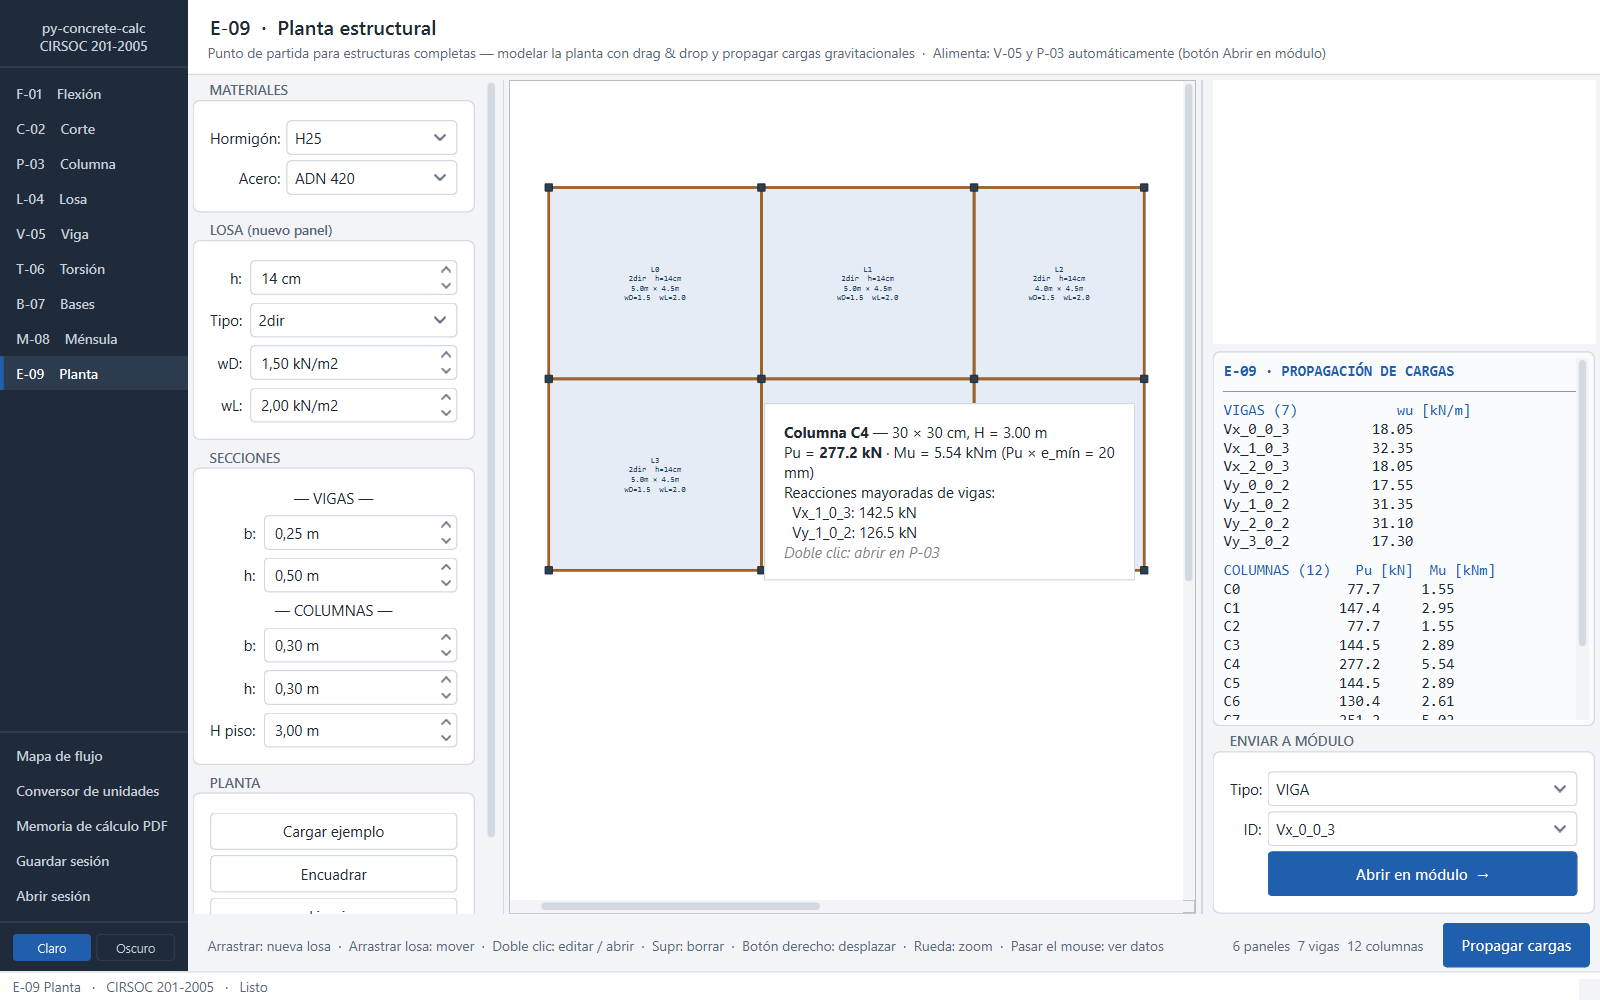
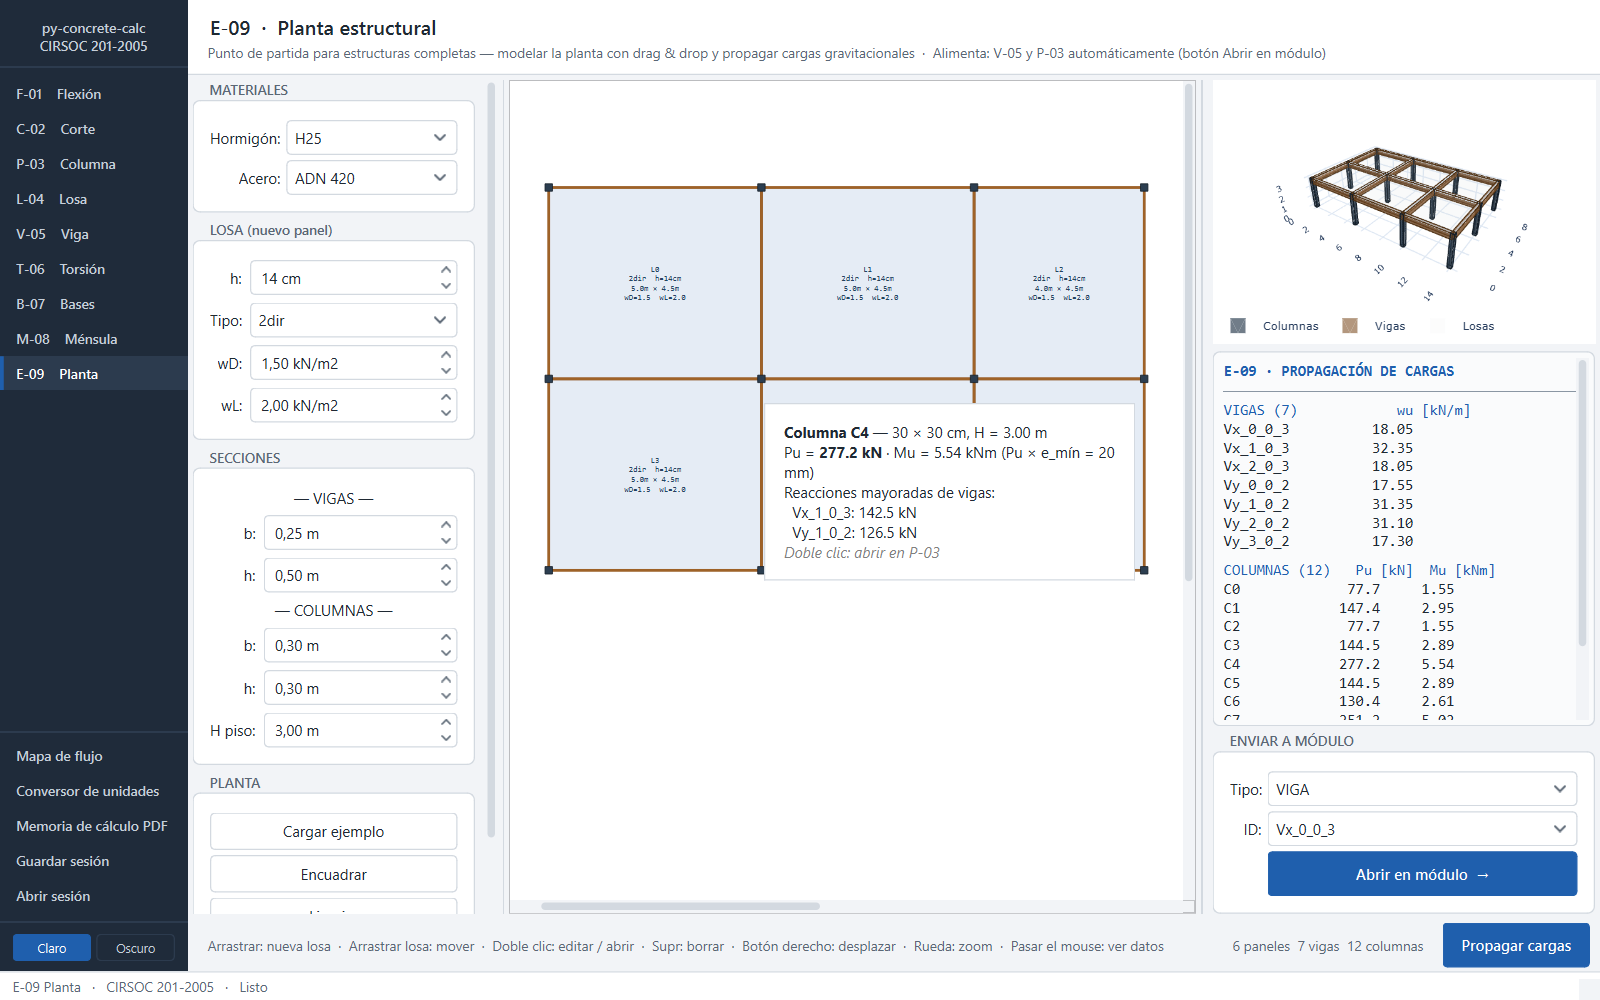
Agregar notas de desarrollo y script de capturas
- docs/DESARROLLO.md: puesta en marcha, arquitectura, convenciones, modelo
  de planta y propagación de cargas, decisiones tomadas y pendientes
- scripts/generar_capturas.py: regenera docs/capturas/ recorriendo la app
  (incluye vista 3D, tooltips, memoria PDF y tema oscuro)
- README enlaza las notas de desarrollo
- Capturas regeneradas con el script

Changed region(s): [[0.8125, 0.124, 0.9375, 0.248], [0.8125, 0.31, 0.875, 0.341], [0.75, 0.31, 0.7812, 0.341]]

diff --git a/scripts/generar_capturas.py b/scripts/generar_capturas.py
@@ -1,0 +1,229 @@
+"""
+Genera las capturas de la aplicación que usa el README (docs/capturas/).
+
+Recorre un escenario de demostración: calcula cada módulo, arma la planta de
+ejemplo en E-09, propaga cargas, envía una viga y una columna a sus módulos,
+exporta una memoria PDF y repite algunas pantallas en tema oscuro.
+
+Uso (desde la raíz del proyecto, con el entorno virtual activo):
+    python scripts/generar_capturas.py               # → docs/capturas/
+    python scripts/generar_capturas.py --salida otra/carpeta
+
+Notas:
+  - Abre la ventana de la aplicación unos 60 s; no hace falta interactuar.
+  - Las vistas QWebEngineView (Plotly 3D) y los tooltips no aparecen en
+    QWidget.grab() de la ventana: se capturan aparte y se pegan en su lugar.
+  - Termina con código 1 si algún módulo mostró un error.
+"""
+from __future__ import annotations
+
+import argparse
+import os
+import sys
+import tempfile
+import time
+import traceback
+
+RAIZ = os.path.dirname(os.path.dirname(os.path.abspath(__file__)))
+sys.path.insert(0, RAIZ)
+
+import app.main as m  # noqa: E402  (configura matplotlib y WebEngine antes de Qt)
+from PyQt6.QtCore import QPoint, QSize, QTimer  # noqa: E402
+from PyQt6.QtGui import QFont, QPainter  # noqa: E402
+from PyQt6.QtPdf import QPdfDocument  # noqa: E402
+from PyQt6.QtWebEngineWidgets import QWebEngineView  # noqa: E402
+from PyQt6.QtWidgets import QApplication, QToolTip, QWidget  # noqa: E402
+
+from app.memoria import generar_memoria  # noqa: E402
+from app.widgets.panel_resultados import PanelResultados  # noqa: E402
+
+args = argparse.ArgumentParser(description=__doc__.split('\n\n')[0])
+args.add_argument('--salida', default=os.path.join(RAIZ, 'docs', 'capturas'),
+                  help='carpeta destino (por defecto docs/capturas)')
+SALIDA = args.parse_args().salida
+os.makedirs(SALIDA, exist_ok=True)
+
+# Cualquier error mostrado por un módulo o excepción no capturada se registra
+errores: list[str] = []
+_mostrar_error = PanelResultados.mostrar_error
+PanelResultados.mostrar_error = lambda self, msg: (errores.append(msg), _mostrar_error(self, msg))[1]
+sys.excepthook = lambda *a: errores.append(''.join(traceback.format_exception(*a)))
+
+app = QApplication(sys.argv)
+app.setStyle('Fusion')
+app.setStyleSheet(m.get_stylesheet(m.get_tema()))
+app.setFont(QFont('Segoe UI', 9))
+win = m.VentanaPrincipal()
+win.show()
+
+
+# ── Utilidades ────────────────────────────────────────────────────────────────
+
+def pump(seg: float = 0.3) -> None:
+    """Procesa eventos de Qt durante `seg` segundos."""
+    fin = time.time() + seg
+    while time.time() < fin:
+        app.processEvents()
+        time.sleep(0.01)
+
+
+def _componer(widget: QWidget, tip: QWidget | None = None):
+    pix = widget.grab()
+    p = QPainter(pix)
+    for v in widget.findChildren(QWebEngineView):
+        if v.isVisibleTo(widget) and v.width() > 0:
+            p.drawPixmap(v.mapTo(widget, QPoint(0, 0)), v.grab())
+    if tip is not None:
+        p.drawPixmap(widget.mapFromGlobal(tip.mapToGlobal(QPoint(0, 0))), tip.grab())
+    p.end()
+    return pix
+
+
+def capturar(widget: QWidget, nombre: str) -> None:
+    _componer(widget).save(os.path.join(SALIDA, nombre))
+    print('  ', nombre, flush=True)
+
+
+def capturar_tooltip(nombre: str, sobre: QWidget, pos: QPoint, texto: str) -> None:
+    """Muestra el tooltip real de Qt en `pos` (coordenadas de `sobre`) y lo captura con la ventana."""
+    QToolTip.showText(sobre.mapToGlobal(pos), texto, sobre)
+    pump(0.6)
+    tip = next((w for w in QApplication.topLevelWidgets()
+                if w.metaObject().className() == 'QTipLabel' and w.isVisible()), None)
+    _componer(win, tip).save(os.path.join(SALIDA, nombre))
+    QToolTip.hideText()
+    pump(0.2)
+    print('  ', nombre, flush=True)
+
+
+def esperar_plotly(view: QWebEngineView, max_seg: float = 25) -> bool:
+    """Espera a que Plotly haya dibujado (existe .main-svg) y 1.5 s más para WebGL."""
+    listo = {'ok': False}
+    fin = time.time() + max_seg
+    while time.time() < fin and not listo['ok']:
+        view.page().runJavaScript("!!document.querySelector('.main-svg')",
+                                  lambda r: listo.__setitem__('ok', bool(r)))
+        pump(0.5)
+    pump(1.5)
+    if not listo['ok']:
+        errores.append('La vista 3D no terminó de cargar')
+    return listo['ok']
+
+
+def ir(idx: int):
+    win._cambiar_modulo(idx)
+    pump(0.3)
+    return win.stack.widget(idx)
+
+
+def adoptar_primera(w) -> None:
+    w.tabla.selectRow(0)
+    w.btn_adoptar.click()
+
+
+# ── Escenario ─────────────────────────────────────────────────────────────────
+
+def escenario() -> None:
+    try:
+        # F-01 Flexión: Mu = 180 kNm, variantes y adopción de la primera
+        w = ir(0)
+        w.entrada_Mu.setText('180')
+        w.btn_calc.click(); w.btn_var.click(); pump()
+        adoptar_primera(w); pump()
+        capturar(win, '01_flexion.png')
+
+        # Memoria de cálculo PDF de F-01 (página 1 como imagen)
+        ruta_pdf = os.path.join(tempfile.gettempdir(), 'memoria_F-01.pdf')
+        generar_memoria(w, 'F-01', ruta_pdf)
+        pdf = QPdfDocument(None)
+        pdf.load(ruta_pdf)
+        pdf.render(0, QSize(1240, 1754)).save(os.path.join(SALIDA, '17_memoria_pdf.png'))
+        print('   17_memoria_pdf.png', flush=True)
+
+        # C-02 Corte
+        w = ir(1)
+        w.btn_calc.click(); w.btn_var.click(); pump()
+        adoptar_primera(w); pump()
+        capturar(win, '02_corte.png')
+
+        # P-03 Columna
+        w = ir(2)
+        w.btn_calc.click(); pump()
+        capturar(win, '03_columna_PM.png')
+
+        # L-04 Losa en 1 y 2 direcciones
+        w = ir(3)
+        w.combo_tipo_losa.setCurrentIndex(0); w.btn_calc.click(); pump()
+        capturar(win, '04_losa_1dir.png')
+        w.combo_tipo_losa.setCurrentIndex(1); w.btn_calc.click(); pump()
+        capturar(win, '05_losa_2dir.png')
+
+        # V-05 Viga simple
+        w = ir(4)
+        w.combo_tipo.setCurrentIndex(0); w.btn_calc.click(); pump()
+        capturar(win, '06_viga_simple.png')
+
+        # T-06, B-07, M-08
+        w = ir(5); w.btn_calc.click(); pump(); capturar(win, '07_torsion.png')
+        w = ir(6); w.btn_calc.click(); pump(); capturar(win, '08_base.png')
+        w = ir(7); w.btn_calc.click(); pump(); capturar(win, '09_mensula.png')
+
+        # E-09 Planta: ejemplo (se carga al abrir) + propagación + 3D
+        w = ir(8)
+        w.btn_prop.click()
+        esperar_plotly(w.visor._view)
+        capturar(win, '10_planta_propagacion.png')
+
+        # Tooltips sobre la planta: columna más cargada y una losa interior
+        sc, vista = w._scene, w._view
+        prop = w._propagacion.cargas_columnas
+        col = max((c for c in sc._cols if c.elem_id), key=lambda c: prop[c.elem_id].Pu)
+        capturar_tooltip('18_tooltip_columna.png', vista.viewport(),
+                         vista.mapFromScene(col.scenePos()), col.toolTip())
+        losa = sc._panels[min(4, len(sc._panels) - 1)]
+        capturar_tooltip('19_tooltip_losa.png', vista.viewport(),
+                         vista.mapFromScene(losa.sceneBoundingRect().center()), losa.toolTip())
+
+        w._ver_3d_ampliado()
+        esperar_plotly(w._dlg_3d.visor._view)
+        capturar(w._dlg_3d, '11_planta_3d.png')
+        w._dlg_3d.hide()
+
+        # E-09 → V-05 (viga continua interior) y → P-03 (columna más cargada)
+        w.combo_env_tipo.setCurrentText('VIGA'); w._actualizar_ids()
+        w.combo_env_id.setCurrentIndex(1)
+        w._enviar_a_modulo(); pump()
+        win.stack.widget(4).btn_calc.click(); pump()
+        capturar(win, '12_planta_a_viga_continua.png')
+
+        ir(8)
+        w.combo_env_tipo.setCurrentText('COLUMNA'); w._actualizar_ids()
+        w.combo_env_id.setCurrentText(col.elem_id)
+        w._enviar_a_modulo(); pump()
+        win.stack.widget(2).btn_calc.click(); pump()
+        capturar(win, '13_planta_a_columna.png')
+
+        # Mapa de flujo y conversor de unidades
+        win._abrir_mapa_flujo(); pump(0.8)
+        capturar(win._mapa_flujo, '14_mapa_flujo.png'); win._mapa_flujo.hide()
+        win._abrir_conversor(); pump()
+        capturar(win._conversor, '15_conversor.png'); win._conversor.hide()
+
+        # Tema oscuro: pantallas representativas
+        win._cambiar_tema('OSCURO'); pump(0.5)
+        for idx, nombre in ((0, 'flexion'), (3, 'losa_2dir'), (2, 'columna_PM')):
+            ir(idx); pump(0.5)
+            capturar(win, f'20_oscuro_{nombre}.png')
+        w = ir(8)
+        esperar_plotly(w.visor._view)
+        capturar(win, '20_oscuro_planta.png')
+        win._cambiar_tema('CLARO'); pump()
+    except Exception:
+        errores.append(traceback.format_exc())
+
+    print('errores:', errores or 'ninguno', flush=True)
+    app.exit(1 if errores else 0)
+
+
+QTimer.singleShot(800, escenario)
+sys.exit(app.exec())

diff --git a/docs/DESARROLLO.md b/docs/DESARROLLO.md
@@ -1,0 +1,115 @@
+# Notas de desarrollo
+
+Contexto para retomar el proyecto en otra computadora o en una sesión nueva: cómo está armado, qué se decidió y por qué, y qué queda pendiente. El README describe el proyecto hacia afuera; este documento es para quien lo desarrolla.
+
+## Puesta en marcha
+
+```bash
+git clone https://github.com/federicoarielcasado/py-concrete-calc.git
+cd py-concrete-calc
+python -m venv .venv && .venv\Scripts\activate      # Windows
+pip install -r requirements.txt
+
+python app/main.py                  # aplicación de escritorio
+python -m pytest                    # 598 tests (no necesitan PyQt)
+python -m ejemplos.ej_viga_continua # ejemplos: siempre como módulo, desde la raíz
+python scripts/generar_capturas.py  # regenera docs/capturas/ (~60 s, abre la app)
+```
+
+- El repositorio es privado: en una máquina nueva hace falta iniciar sesión en GitHub.
+- **El historial se reescribió en octubre de 2026** para quitar un archivo. Una copia clonada antes de esa fecha no es compatible: hay que clonar de nuevo (o `git fetch` + `git reset --hard origin/main`), nunca `git pull`.
+- CI: `.github/workflows/tests.yml` corre pytest en cada push (Ubuntu, sin PyQt, `MPLBACKEND=Agg`).
+
+## Arquitectura
+
+```
+hormigon/    Librería de cálculo pura (sin UI). Cada función devuelve un objeto
+             resultado con todos los valores intermedios.
+elementos/   Elementos tipificados que combinan módulos (viga, columna, losa, planta).
+graficos/    Figuras matplotlib (2D) y plotly (3D). No conocen la UI.
+app/         Interfaz PyQt6: una ventana por módulo en app/ventanas/, widgets
+             reutilizables en app/widgets/, temas, estilos y memoria PDF.
+tests/       pytest; valores esperados calculables a mano o de ejemplos CIRSOC.
+scripts/     Herramientas de desarrollo (capturas).
+```
+
+Flujo típico de una ventana: `validar_campos()` → leer entradas → función de `hormigon/` o `elementos/` → `panel_res.mostrar_resultado_*()` → figura de `graficos/` en `CanvasMatplotlib`.
+
+### Convenciones
+
+- Unidades: kN y m en todo el proyecto; MPa para tensiones; As en cm².
+- Nombres según la notación del CIRSOC (Mu, Vu, As, phi_Mn, f'c → `fc`...).
+- Combinación de cargas: siempre `hormigon.cargas.wu_DL()` = máx(1.4·D ; 1.2·D + 1.6·L), art. 9.2.1. No escribir factores sueltos (ver "Decisiones").
+- Variantes de armado: ordenadas por economía (menor área o menor Av/s).
+- Commits en español, en infinitivo ("Agregar…", "Corregir…"), sin líneas de co-autoría.
+
+## Interfaz
+
+| Pieza | Dónde | Notas |
+|---|---|---|
+| Temas Claro / Oscuro | `app/themes.py`, `app/styles.py` | Un `Tema` (dataclass) genera el QSS y los colores de todo lo que no usa QSS. Base de estilo `Fusion`. |
+| Figuras en el tema | `app/widgets/tema_figuras.py` | Las figuras se crean siempre en claro; el oscuro se aplica después invirtiendo grises y aclarando colores oscuros. Guarda los colores originales, así que cambiar de tema es reversible. Artistas con `gid='color_fijo'` no se tocan. Exportar figura y la memoria PDF usan siempre los colores claros. |
+| Panel de resultados | `app/widgets/panel_resultados.py` | Recibe `[(texto, color) \| None]`; `None` separa bloques, que se reparten en dos columnas. Recuerda la última llamada para redibujar al cambiar de tema; `lineas` alimenta la memoria PDF. |
+| Validación | `app/widgets/entradas.py` | Validador numérico en los `QLineEdit`, chequeo antes de calcular (vacío, no numérico, dimensión ≤ 0, negativo salvo Nu) y scroll de los paneles de datos. |
+| Memoria PDF | `app/memoria.py` | Genérica para cualquier ventana: lee los `QFormLayout` visibles, el panel de resultados y la figura. QTextDocument → QPdfWriter, sin dependencias extra. Referencias normativas por módulo en `_REFERENCIAS`. |
+| Visor 3D | `app/widgets/visor_3d.py` | plotly.js embebido (sin CDN, funciona offline). Supera el límite de 2 MB de `setHtml`, por eso se escribe a un archivo temporal y se usa `load()`. No llamar `setHtml` justo antes de un `load()` (compiten). |
+| Lienzo E-09 | `app/widgets/canvas_planta.py` | Escala `SCALE = 80 px/m`, grilla de 1 m. Vigas y columnas se generan solas desde los paneles. |
+
+Detalle útil para capturas automáticas: `QWidget.grab()` de la ventana no incluye el contenido de `QWebEngineView` ni los tooltips; `scripts/generar_capturas.py` los captura aparte y los superpone.
+
+## Modelo de planta (E-09) y propagación de cargas
+
+**Construcción** (`canvas_planta.py`):
+1. El usuario dibuja paños rectangulares (o usa *Cargar ejemplo*: 3×2 paños, 14 × 9 m).
+2. Cada borde de paño marcado "con viga" genera una viga; bordes colineales se unen en vigas continuas.
+3. `puntos_columna_m()` ubica una columna en cada extremo de viga **y en cada eje de la grilla que la cruza** (incluye cruces entre vigas). La usan tanto el dibujo como el modelo, para que coincidan.
+4. `to_planta_estructural()` arma el `PlantaEstructural` de `hormigon/modelo.py`.
+
+**Propagación** (`hormigon/propagacion.py`):
+
+| Paso | Regla |
+|---|---|
+| Losa | D = h·25 kN/m³ + wD superpuesta; L = wL |
+| Losa 1 dir. → viga | w·l/2 a las vigas perpendiculares a la luz |
+| Losa 2 dir. → viga | Líneas a 45°: triangular sobre el **lado corto**, trapezoidal sobre el **largo** |
+| Equivalente para **momento** (diseño de la viga) | triangular w·la/3; trapezoidal w·la·(3−m²)/6 |
+| Equivalente para **corte** (reacciones) | triangular w·la/4; trapezoidal w·la·(2−m)/4 (suman exactamente w·la·lb) |
+| Viga → columna | art. 8.3.3: w·ln/2; 1.15·w·ln/2 solo para el tramo extremo en el primer apoyo interior |
+| Columna | Pu = suma de reacciones + peso propio, mayorado con `wu_DL`; Mu = Pu·e_mín, e_mín = máx(20 mm ; h/20) |
+
+**Control de equilibrio**: ΣPu de columnas ≥ carga total mayorada, con un excedente explicado solo por el factor 1.15 (≈ +5 % en el ejemplo). Lo verifica `tests/test_propagacion.py::test_equilibrio_planta_3x2`.
+
+**Simplificaciones conocidas** (conviene mencionarlas si se presenta el proyecto):
+- Un solo nivel: las columnas no acumulan pisos.
+- Paños rectangulares sobre grilla de 1 m; secciones de vigas y columnas únicas para toda la planta.
+- Mu de columnas por excentricidad mínima, no por análisis de pórtico; sin viento ni sismo.
+- Reacciones por coeficientes del art. 8.3.3, no por resolución de la viga continua.
+
+## Decisiones y correcciones (octubre 2026)
+
+- **Estética**: se reemplazó el tema retro (Win98 / terminal CRT, textos tipo "EJECUTAR PROTOCOLO") por temas Claro y Oscuro con textos neutros ("Calcular", "✓ VERIFICA").
+- **C-02**: variantes de estribos ordenadas por menor Av/s (antes, por mayor separación).
+- **M-08**: se agregó la cuantía mínima de ménsulas (art. 11.9.5) y los estribos horizontales Ah (art. 11.9.4).
+- **Factores de carga**: L-04 en 2 direcciones calculaba con 1.4·D + 1.7·L (ACI viejo) y varios tooltips citaban esa combinación; todo pasa ahora por `wu_DL`.
+- **E-09**, cuatro errores corregidos con un balance de cargas:
+  1. no había columnas en los cruces interiores de vigas → se perdía ~9 % de la carga;
+  2. las reacciones usaban la equivalente de momento → +33 %;
+  3. triangular y trapezoidal estaban asignadas al revés (los tests viejos tenían el mismo error);
+  4. el factor 1.15 se aplicaba en todos los apoyos interiores.
+- **Planta en la sesión JSON**: E-09 guarda y restaura sus paneles.
+- **Repositorio**: el archivo de instrucciones local para asistentes de código no se versiona (`.gitignore`); el historial se reescribió para quitarlo.
+
+## Pendientes
+
+Alcance del curso aún no cubierto:
+- Columnas esbeltas (art. 10.10–10.12) y secciones circulares en columnas.
+- Bases medianeras y de esquina.
+- Losas en 2 direcciones por Pórtico Equivalente (art. 13.7); punzonamiento en losas sin vigas.
+- Pantallas para anclajes y tirantes (la librería ya los tiene).
+- `elementos/planta.py::dimensionar_losa` todavía no dimensiona losas en 2 direcciones.
+
+Mejoras posibles:
+- E-09 de varios niveles y secciones por elemento.
+- Rótulos del lienzo E-09 más legibles con poco zoom.
+- Ejecutable para Windows (PyInstaller; pesado por QtWebEngine).
+- Los archivos temporales del visor 3D no se borran al cerrar.

diff --git a/README.md b/README.md
@@ -132,6 +132,10 @@ python -m pytest
 | Interfaz de escritorio | PyQt6, Matplotlib (embebido), Plotly 3D (QWebEngineView) |
 | Tests | pytest |
 
+## Desarrollo
+
+Las decisiones de diseño, el modelo de cálculo de la planta, las convenciones y los pendientes están en [docs/DESARROLLO.md](docs/DESARROLLO.md). Las capturas de este README se regeneran con `python scripts/generar_capturas.py`.
+
 ## Estructura del proyecto
 
 ```
@@ -141,7 +145,8 @@ graficos/       # Visualización: secciones 2D, diagramas, modelo 3D
 app/            # Aplicación de escritorio PyQt6 (ventanas y widgets)
 tests/          # Tests unitarios por módulo
 ejemplos/       # Scripts que replican los ejemplos resueltos del CIRSOC
-docs/capturas/  # Capturas de la aplicación
+scripts/        # Herramientas de desarrollo (generación de capturas)
+docs/           # Notas de desarrollo y capturas de la aplicación
 ```
 
 ## Próximos pasos
